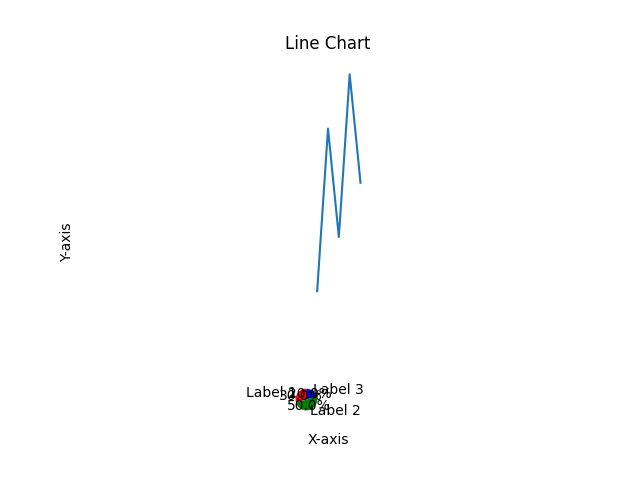
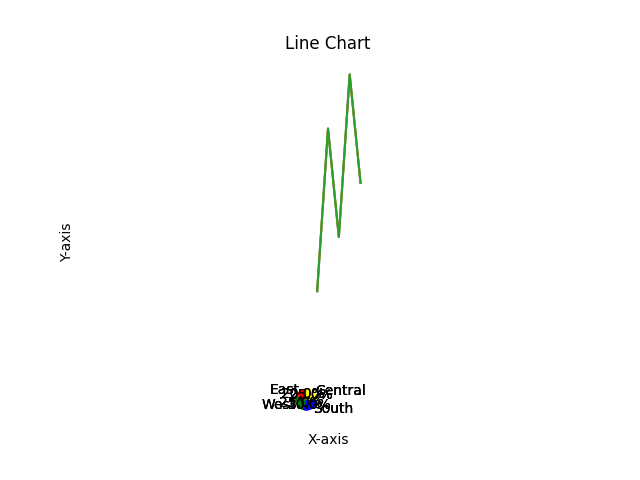
PDF report generation

Changed region(s): [[0.5, 0.1562, 0.5625, 0.5], [0.375, 0.7812, 0.5625, 0.875], [0.4688, 0.5312, 0.5, 0.5938]]

diff --git a/Task2/sales/views.py b/Task2/sales/views.py
@@ -32,16 +32,15 @@ threading.Thread(target=matplotlib.pyplot.ion()).start()
 @sync_to_async
 
 def generate_chart(request):
-    labels = ['Label 1', 'Label 2', 'Label 3']
-    sizes = [30, 50, 20]
-    colors = ['red', 'green', 'blue']
+    labels = ['East', 'West', 'South', 'Central']
+    sizes = [20, 25, 30, 25]
+    colors = ['red', 'green', 'blue', 'yellow']
 
     plt.pie(sizes, labels=labels, colors=colors, autopct='%1.1f%%', startangle=90)
     plt.axis('equal')  # Equal aspect ratio ensures the pie chart appears as a circle
 
     # Save the chart to a temporary file
-    # chart_path = './images/chart.png'
-    chart_path = '/Users/cio/UpdateTech/Task2/sales/templates/pie.png'
+    chart_path = '/Users/cio/UpdateTech/Task2/static/pie.png'
     plt.savefig(chart_path)
 
 
@@ -57,7 +56,7 @@ def generate_chart(request):
     plt.title('Line Chart')
 
     # Save the chart to a temporary file
-    chart_image_path = '/Users/cio/UpdateTech/Task2/sales/templates/line.png'
+    chart_image_path = '/Users/cio/UpdateTech/Task2/static/line.png'
     plt.savefig(chart_image_path)
 
 
